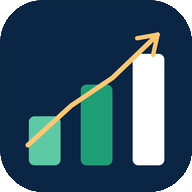
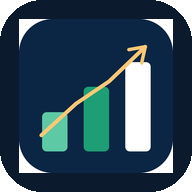
Updates

diff --git a/index.html b/index.html
@@ -9,10 +9,12 @@
     <meta name="apple-mobile-web-app-status-bar-style" content="default" />
     <meta name="apple-mobile-web-app-title" content="FinanzPlanner" />
     <link rel="manifest" href="/finanz-app/manifest.json" />
-    <link rel="apple-touch-icon" href="/finanz-app/icon-192.png" />
-    <link rel="icon" type="image/png" sizes="192x192" href="/finanz-app/icon-192.png" />
+    <link rel="icon" type="image/x-icon" href="/finanz-app/favicon.ico" />
+    <link rel="icon" type="image/png" sizes="32x32" href="/finanz-app/favicon-32.png" />
+    <link rel="icon" type="image/png" sizes="64x64" href="/finanz-app/favicon-64.png" />
+    <link rel="apple-touch-icon" href="/finanz-app/apple-touch-icon.png" />
     <title>FinanzPlanner</title>
-    <script type="module" crossorigin src="/finanz-app/assets/index-Dbf0ziDS.js"></script>
+    <script type="module" crossorigin src="/finanz-app/assets/index-Dx12DB4l.js"></script>
     <link rel="stylesheet" crossorigin href="/finanz-app/assets/index-DQKgVv32.css">
   </head>
   <body>